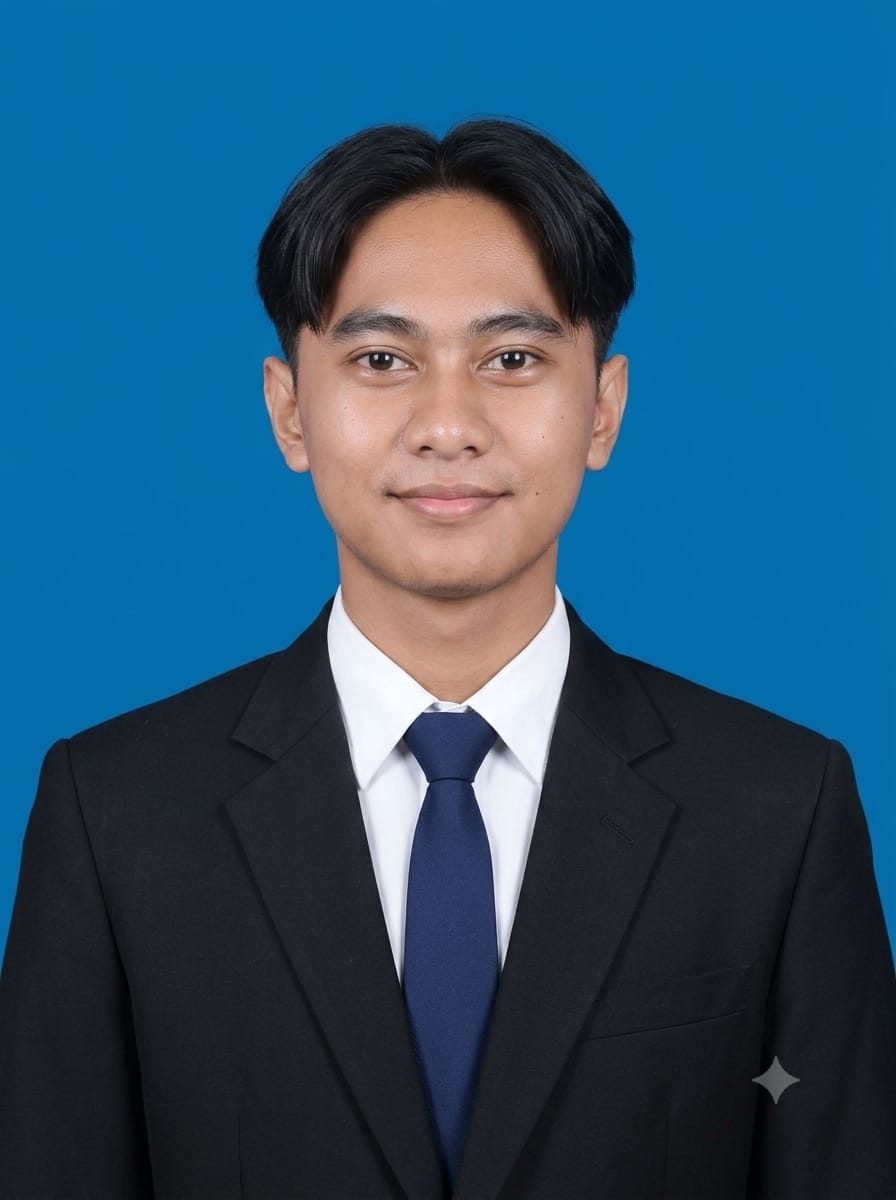
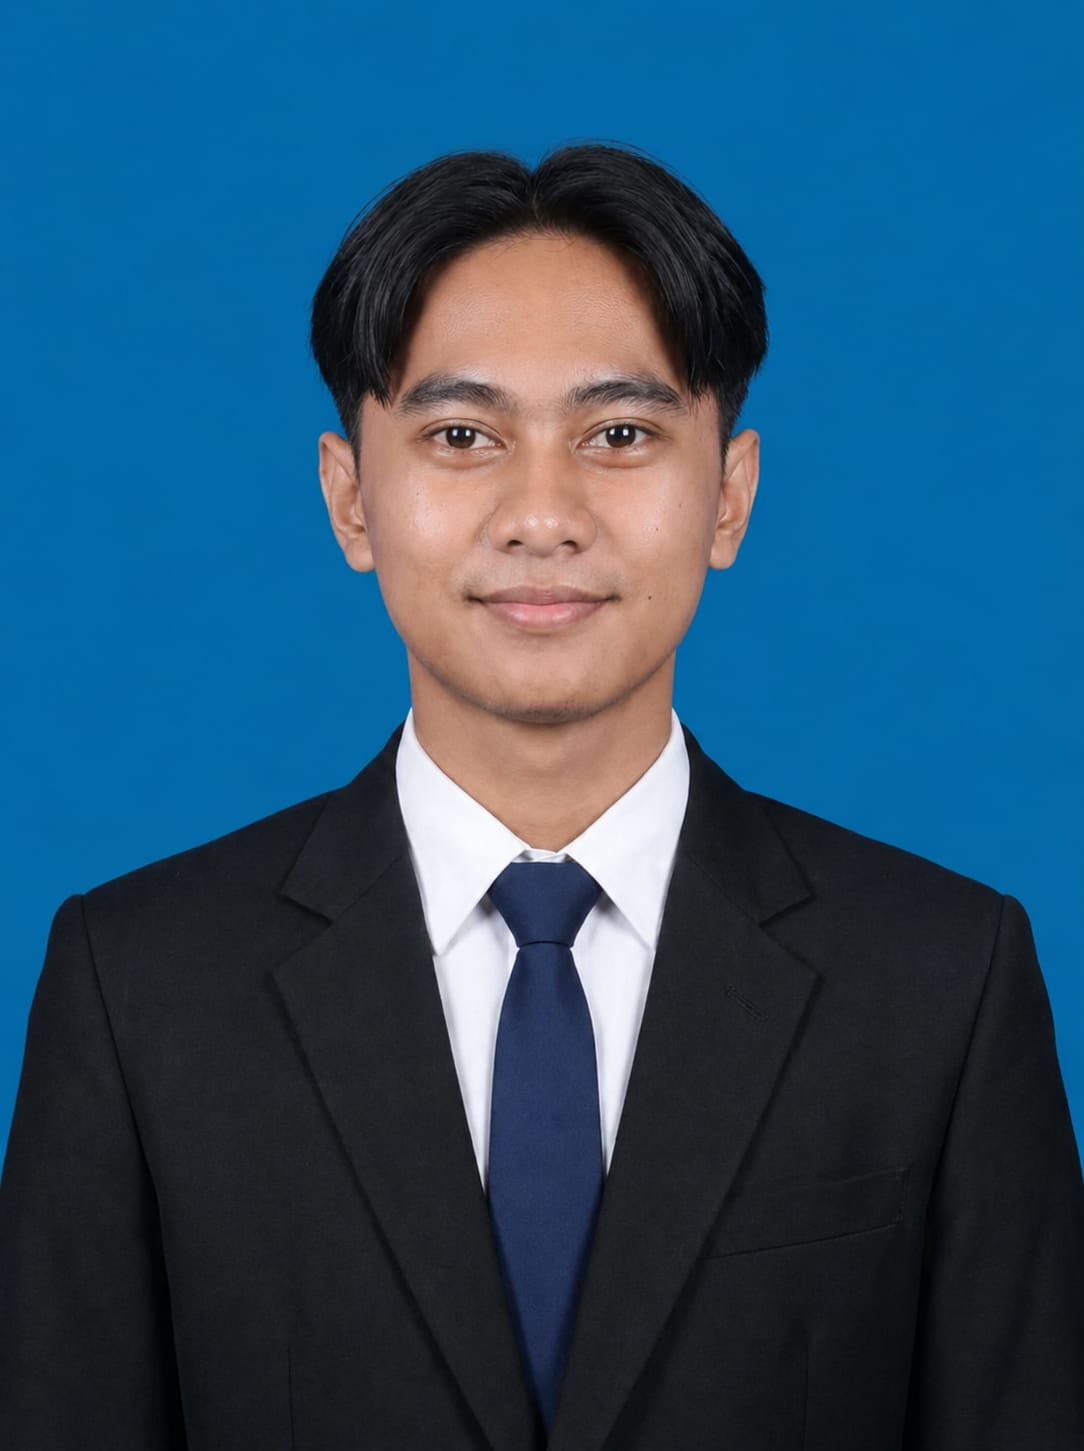
fix: perbaiki path foto profil dan sertifikat

diff --git a/src/portfolio.jsx b/src/portfolio.jsx
@@ -68,37 +68,38 @@ const CERTIFICATES = [
   {
     id: "sertif1",
     image: "/sertifikat/sertif1.jpeg",
-    title: "Belajar Dasar Pemrograman Web",
-    issuer: "CODEPOLITAN",
-    year: "2025",
-    desc: "Mempelajari HTML, CSS, dan dasar-dasar pembangunan halaman web responsif.",
+    title: "Kuliah Umum: IoT: Challenge, Careers, and Modern Impact",
+    issuer: "HIMAFORKA — 2024",
+    year: "2024",
+    desc: "Berkontribusi aktif sebagai panitia pelaksana dalam menyelenggarakan kuliah umum yang membahas tantangan, peluang karier, serta dampak modern dari Internet of Things (IoT).",
     color: "#C8A96E",
   },
   {
     id: "sertif2",
     image: "/sertifikat/sertif2.jpeg",
-    title: "Belajar Dasar JavaScript",
-    issuer: "CODEPOLITAN",
-    year: "2025",
-    desc: "Memahami fundamental JavaScript, termasuk variabel, fungsi, dan DOM manipulation.",
+    title: "Kuliah Umum: Engineering the Digital World",
+    issuer: "HIMAFORKA — 2026",
+    year: "2026",
+    desc: "Menjadi peserta dalam kegiatan kuliah umum untuk memperluas wawasan mengenai perkembangan teknologi dan strategi menghadapi dunia digital.",
     color: "#C8A96E",
   },
   {
     id: "sertif3",
     image: "/sertifikat/sertif3.jpeg",
-    title: "Belajar Membuat Aplikasi Back-End",
-    issuer: "CODEPOLITAN",
+    title: "Latihan Kader XXI",
+    issuer: "HIMAFORKA — 2025",
     year: "2025",
-    desc: "Membangun REST API menggunakan Node.js dengan Express dan pengelolaan database.",
+    desc: "Berperan sebagai panitia dalam menyukseskan program Latihan Kader ke-XXI guna membangun jiwa kepemimpinan dan memperkuat organisasi mahasiswa.",
     color: "#C8A96E",
   },
   {
     id: "sertif4",
     image: "/sertifikat/sertif4.jpeg",
-    title: "Belajar Dasar Database",
-    issuer: "CODEPOLITAN",
-    year: "2025",
-    desc: "Memahami konsep database relasional, SQL, dan perancangan skema data.",
+    title:
+      "Kuliah Umum: Strategi Cerdas Mengelola Literatur Ilmiah Menggunakan Mendeley",
+    issuer: "STMIK Palangkaraya — 2026",
+    year: "2026",
+    desc: "Mengikuti pelatihan intensif sebagai peserta untuk memahami tata cara pengelolaan referensi karya ilmiah secara terstruktur dan efisien menggunakan aplikasi Mendeley..",
     color: "#C8A96E",
   },
 ];
@@ -700,7 +701,7 @@ function HeroSection() {
             }}
           >
             <img
-              src="/profil.jpeg"
+              src="/Profil.jpeg"
               alt="Ayub Wicaksono"
               style={{
                 width: "100%",
@@ -1053,7 +1054,12 @@ function CertificatesSection() {
                 <img
                   src={cert.image}
                   alt=""
-                  style={{ width: "100%", height: "100%", objectFit: "cover", display: "block" }}
+                  style={{
+                    width: "100%",
+                    height: "100%",
+                    objectFit: "cover",
+                    display: "block",
+                  }}
                 />
               </div>
               <div
